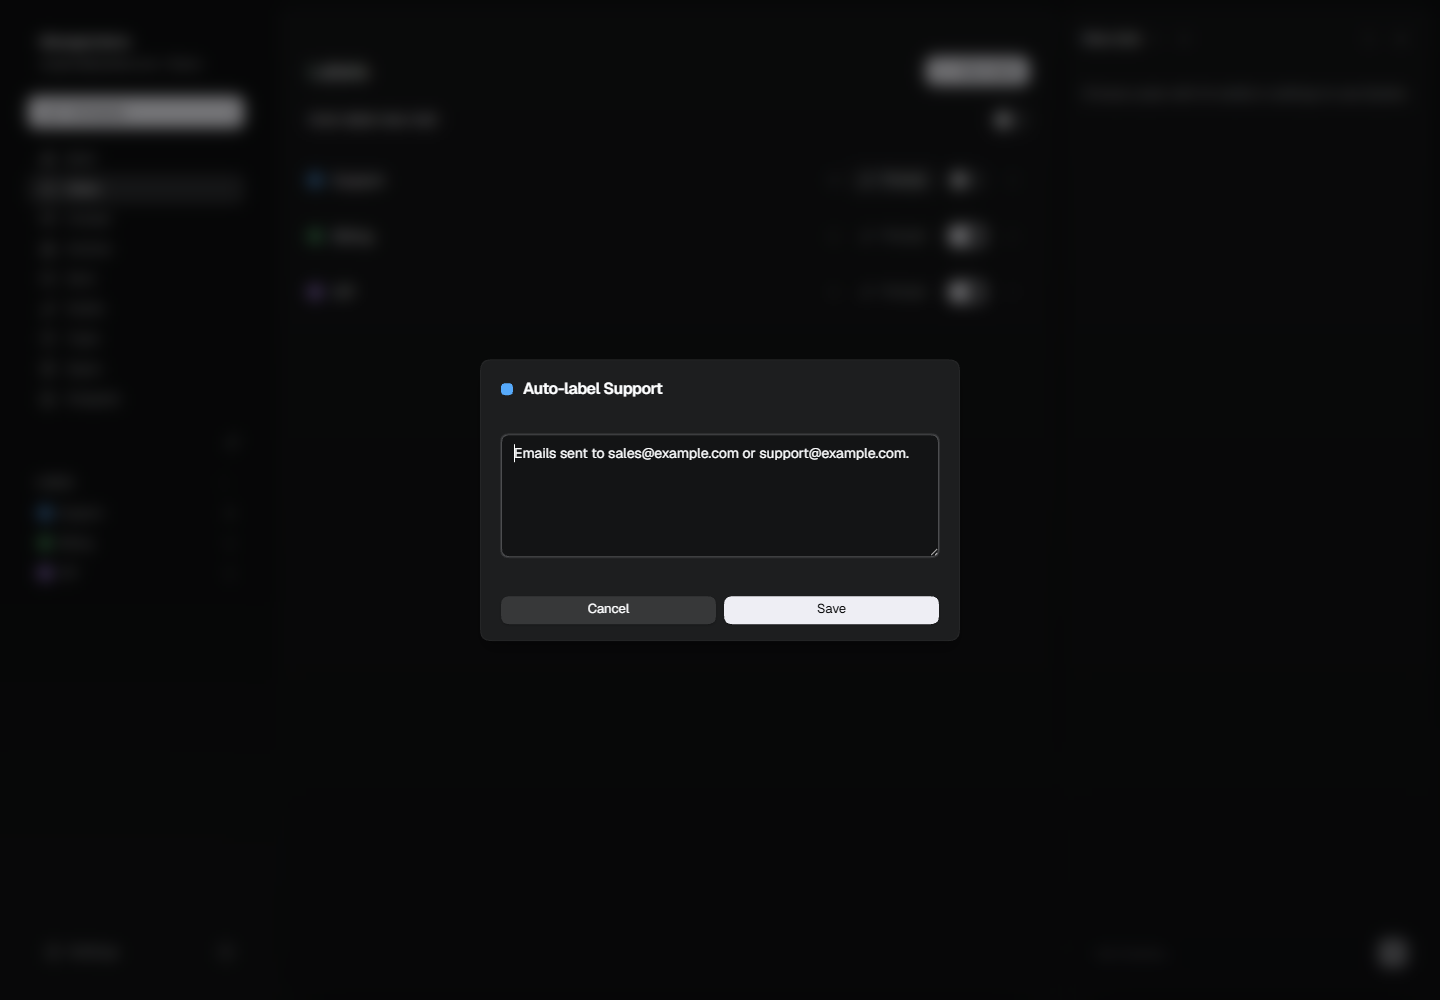
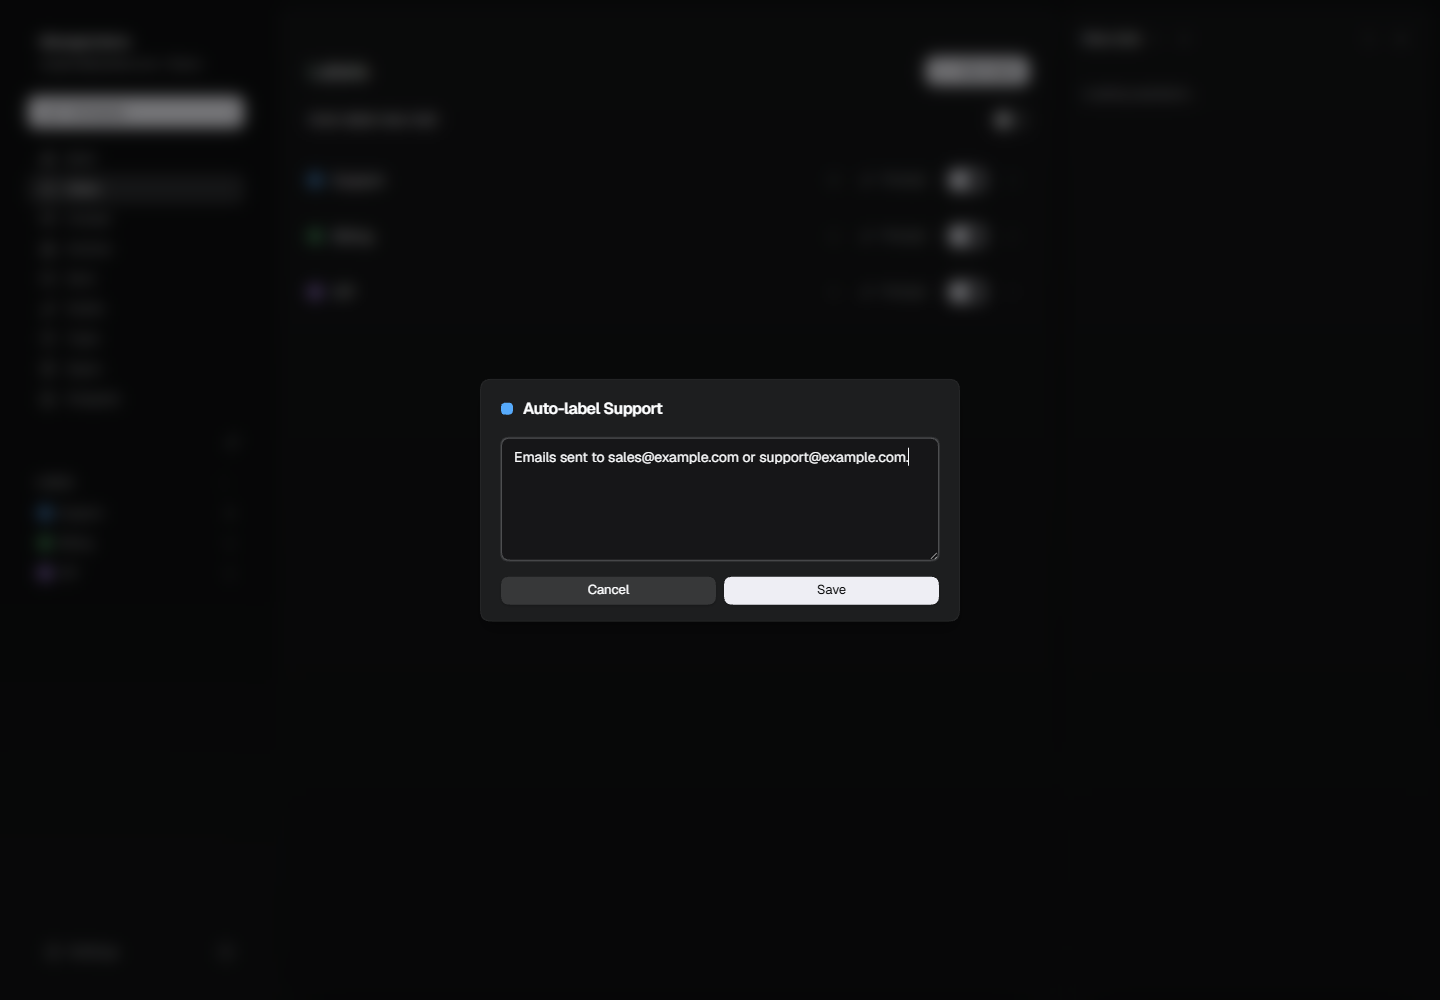
fix(ui): make prompt dialog spacing consistent

diff --git a/apps/web/src/features/message-labels/components/auto-label-editor.tsx b/apps/web/src/features/message-labels/components/auto-label-editor.tsx
@@ -2,14 +2,13 @@
 
 import { autoLabelSettingsSchema } from "@quieter/mail/auto-label";
 import type { MailboxLabel } from "@quieter/mail/mailbox-organization";
+import { ActionFooter } from "@quieter/ui/action-footer";
 import { Button } from "@quieter/ui/button";
 import { ColorSwatch } from "@quieter/ui/color-swatch";
 import {
   Dialog,
   DialogBody,
   DialogContent,
-  DialogFooter,
-  DialogHeader,
   DialogTitle,
 } from "@quieter/ui/dialog";
 import { Textarea } from "@quieter/ui/textarea";
@@ -46,18 +45,18 @@ export const AutoLabelEditor = ({
       }}
     >
       <DialogContent className="flex max-h-[90dvh] flex-col">
-        <form
-          aria-label={`Auto-label ${label.name}`}
-          className="flex min-h-0 flex-col"
-          onSubmit={(event) => {
-            event.preventDefault();
-            setShowErrors(true);
-            if (parsed.success) {
-              void onSave(parsed.data);
-            }
-          }}
-        >
-          <DialogHeader className="shrink-0">
+        <DialogBody className="min-h-0 overflow-y-auto">
+          <form
+            aria-label={`Auto-label ${label.name}`}
+            className="flex min-h-0 flex-col gap-4"
+            onSubmit={(event) => {
+              event.preventDefault();
+              setShowErrors(true);
+              if (parsed.success) {
+                void onSave(parsed.data);
+              }
+            }}
+          >
             <div className="flex min-w-0 items-center gap-2.5">
               <ColorSwatch
                 color={
@@ -74,12 +73,8 @@ export const AutoLabelEditor = ({
                 </DialogTitle>
               </div>
             </div>
-          </DialogHeader>
-          <DialogBody className="min-h-0 overflow-y-auto" spacing="3">
-            <label className="sr-only" htmlFor={`${id}-prompt`}>
-              AI prompt
-            </label>
             <Textarea
+              aria-label="AI prompt"
               aria-describedby={
                 showErrors && !parsed.success ? `${id}-error` : undefined
               }
@@ -103,28 +98,28 @@ export const AutoLabelEditor = ({
                 {parsed.error.issues[0]?.message}
               </p>
             ) : null}
-          </DialogBody>
-          <DialogFooter className="shrink-0">
-            <Button
-              disabled={isPending}
-              onClick={onCancel}
-              size="sm"
-              type="button"
-              variant="secondary"
-            >
-              Cancel
-            </Button>
-            <Button
-              disabled={disabled}
-              pending={isPending}
-              pendingLabel="Saving…"
-              size="sm"
-              type="submit"
-            >
-              Save
-            </Button>
-          </DialogFooter>
-        </form>
+            <ActionFooter>
+              <Button
+                disabled={isPending}
+                onClick={onCancel}
+                size="sm"
+                type="button"
+                variant="secondary"
+              >
+                Cancel
+              </Button>
+              <Button
+                disabled={disabled}
+                pending={isPending}
+                pendingLabel="Saving…"
+                size="sm"
+                type="submit"
+              >
+                Save
+              </Button>
+            </ActionFooter>
+          </form>
+        </DialogBody>
       </DialogContent>
     </Dialog>
   );
